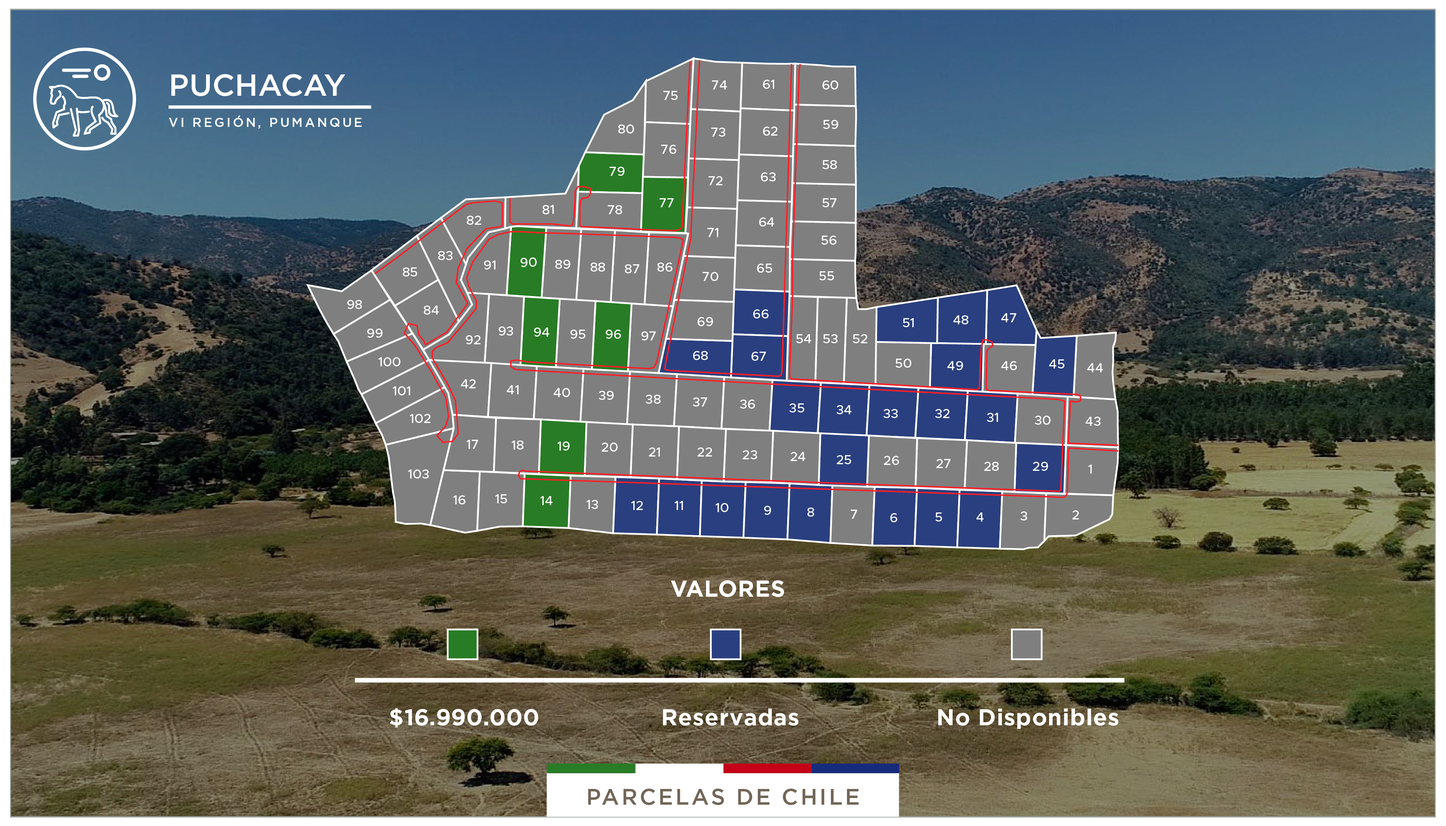
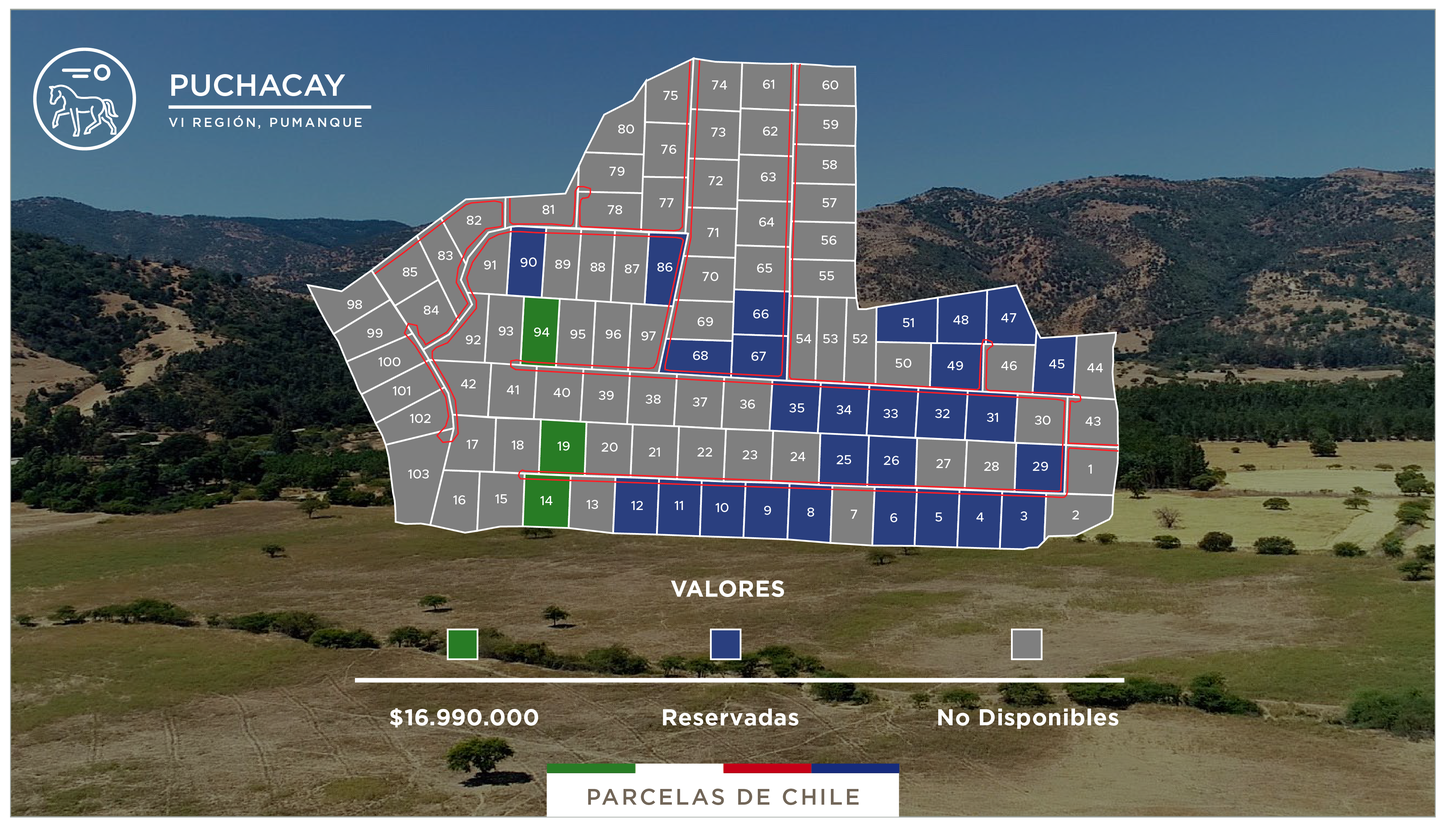
renovando parcelas, contraseña

diff --git a/view/componentes/mapsvg/js/laconsentida.js b/view/componentes/mapsvg/js/laconsentida.js
@@ -301,9 +301,9 @@
                     'p-49': {
                         id: "p-49",
                         'id_no_spaces': "p-49",
-                        fill: "rgba(190,46,56,1)",
-                        tooltip: "$29.990.000",
-                        popover: "$29.990.000",
+                        fill: "rgba(88,89,89,1)",
+                        tooltip: "NO DISPONIBLE",
+                        popover: "NO DISPONIBLE",
                         data: {}
                     },
                     'p-47': {

diff --git a/view/componentes/mapsvg/js/volantin.js b/view/componentes/mapsvg/js/volantin.js
@@ -206,9 +206,9 @@ jQuery(document).ready(function () {
             'P-8-9': {
                 id: "P-8-9",
                 'id_no_spaces': "P-8-9",
-                fill: "rgba(207,40,59,1)",
-                tooltip: "$10.490.000",
-                popover: "$10.490.000",
+                fill: "rgba(88,89,89,1)",
+                tooltip: "VENDIDA" ,
+                popover: "VENDIDA",
                 data: {}
             },
             'P-18': {

diff --git a/view/componentes/bat/rd-mailform.php b/view/componentes/bat/rd-mailform.php
@@ -117,7 +117,7 @@ try {
 
     $mail->Host       = "smtp.gmail.com";
     $mail->Username   = "info@parcelasdechile.cl";
-    $mail->Password   = "nqjqfhlukazqodnv";
+    $mail->Password   = "zijlhcrtpmmepfgs";
     $mail->From       = "info@parcelasdechile.cl";
     $mail->FromName   = "Parcelas Chile";
 
